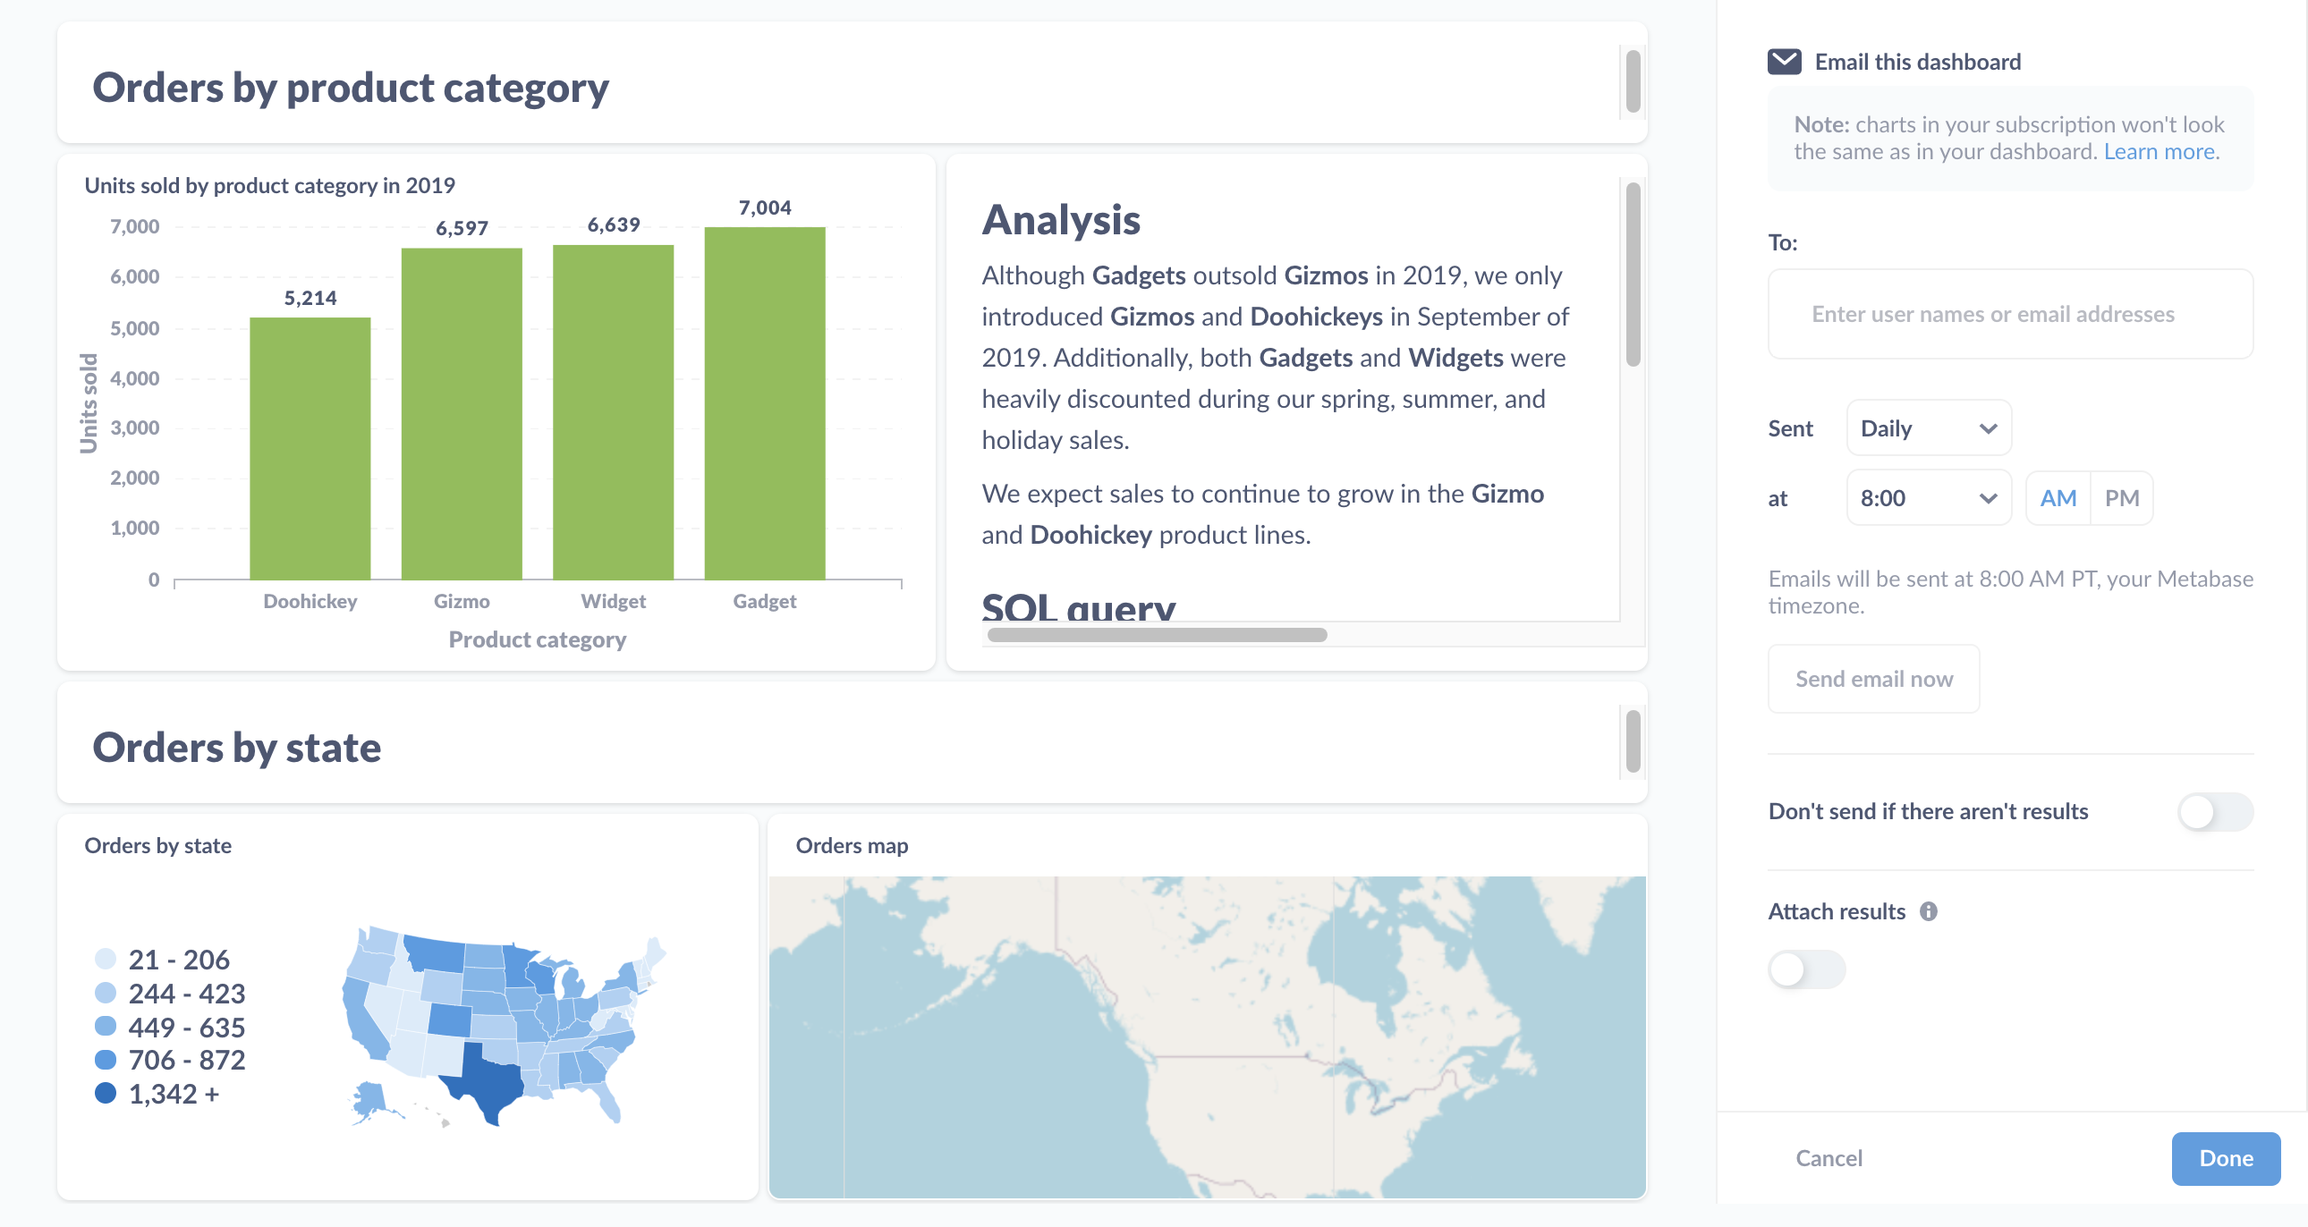
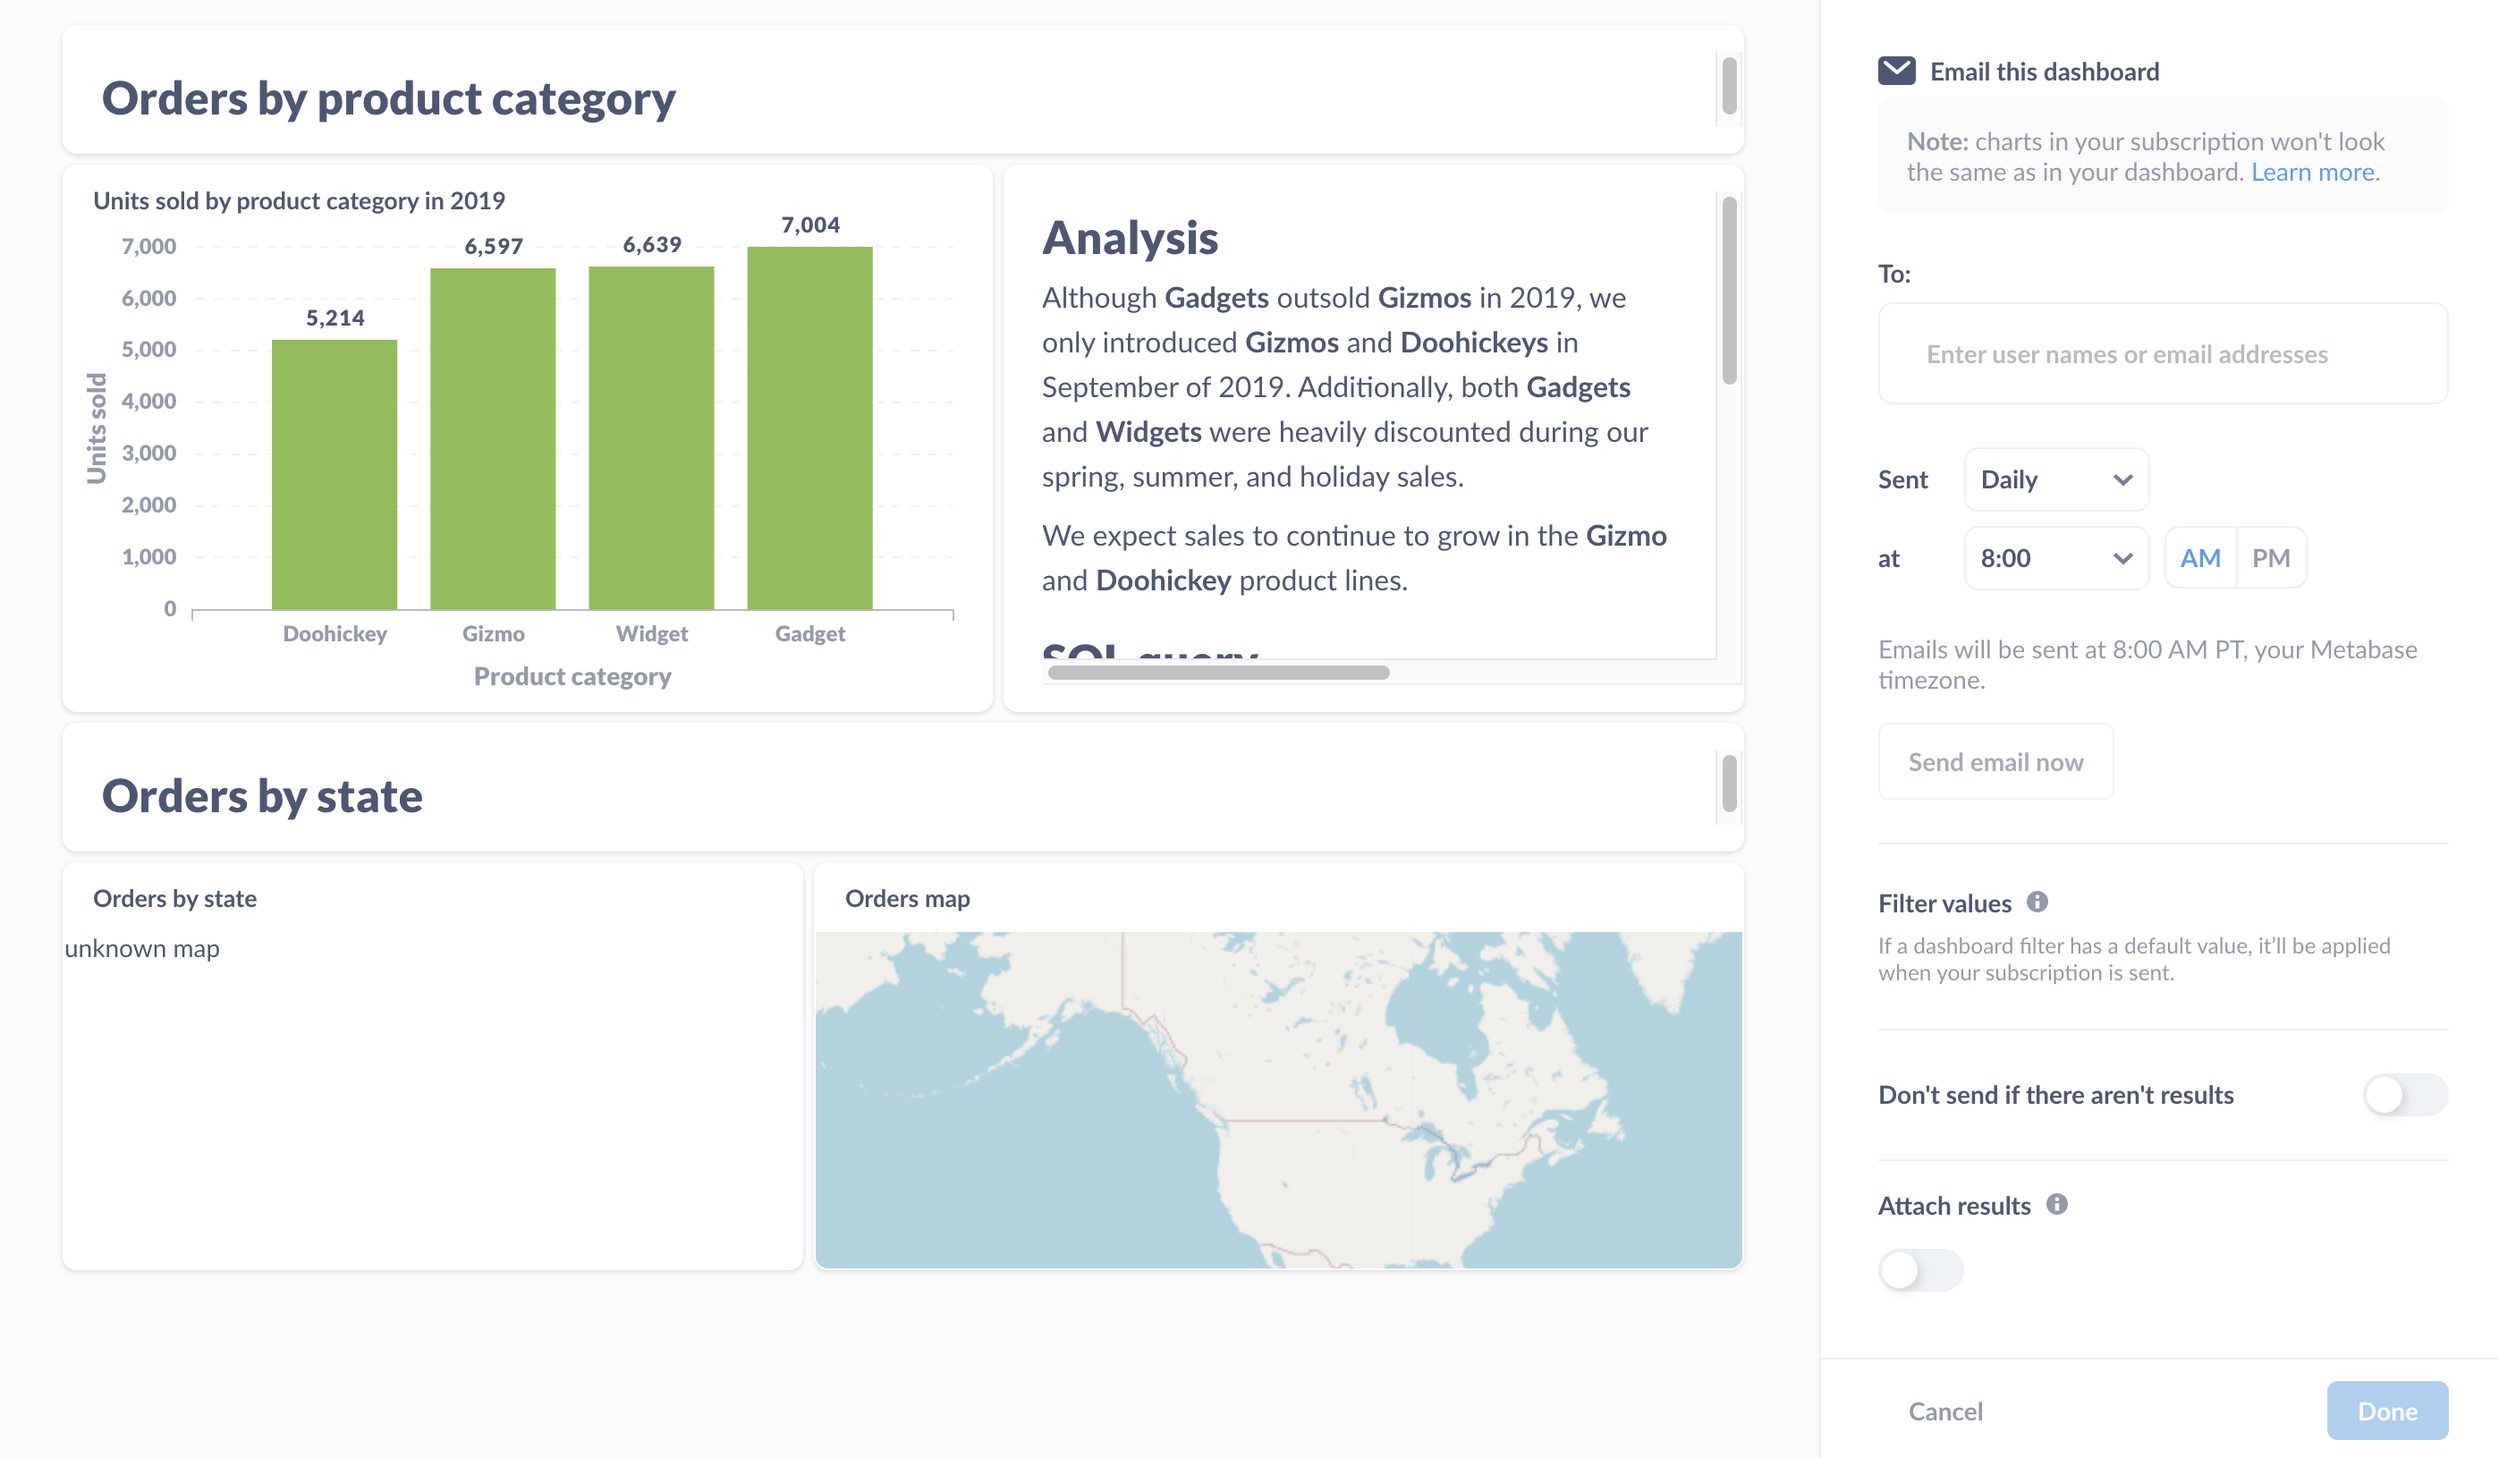
docs - EE filter values for dashboard subscriptions (#15525)

diff --git a/docs/enterprise-guide/dashboard-subscriptions.md b/docs/enterprise-guide/dashboard-subscriptions.md
@@ -1,0 +1,17 @@
+
+## Customize filter values for each dashboard subscription
+
+This page covers the Enterprise Edition features for [dashboard subscriptions](../users-guide/dashboard-subscriptions.md).
+
+The Enterprise Edition lets you customize which filter values to apply to each subscription. That way you can send different groups of people an email (or Slack message) the contents of the dashboard with different filters applied. You only need to maintain one dashboard, which you can use to send results relevant to each subscriber.
+
+### Setting filter values
+
+You can set values for each filter on the dashboard. If you have any dashboard filters with default values, you can override those defaults for a given subscription, or leave them as-is.
+
+Here's the sidebar in Enterprise Edition where you can set the filter values:
+
+![Setting a filter value](./images/dashboard-subscriptions/set-filter-values.png)
+
+The section to call out here is the **Set filter values for when this gets sent**. Here we've set "VT" as the value for the dashboard's State filter to scope results to records from Vermont. We didn't set a value for the Created_At filter, so the subscription will send the results without a filter applied. If you've set a default value for the filter, the subscription will list the value here.
+

diff --git a/docs/users-guide/dashboard-subscriptions.md b/docs/users-guide/dashboard-subscriptions.md
@@ -46,6 +46,18 @@ For Slack subscriptions, you can set up a subscription for a channel (like #gene
 
 You can specify how often Metabase sends a Slack message (hourly, daily, weekly, or monthly), and whether to send a message if the dashboard fails to return results.
 
+### Adding multiple subscriptions
+
+You can add multiple subscriptions to a single dashboard. To add a subscription, click on the **+** icon in the dashboard subscription panel.
+
+### Deleting a subscription
+
+To remove a subscription from a dashboard, select the subscription you'd like to remove. At the bottom of the sidebar, select **Delete this subscription**. Follow the instructions on the modal that pops up to confirm you'd like to delete the subscription.
+
+## Enterprise Edition: customize filter values for each dashboard subscription
+
+Metabase Enterprise Edition allows you to [customize filter values for each subscription](../enterprise-guide/dashboard-subscriptions.md), so you can set up subscriptions with different filter values applied for different subscribers.
+
 ### Related reading
 
 - [Setting up email](https://www.metabase.com/docs/latest/administration-guide/02-setting-up-email.html)

diff --git a/docs/administration-guide/10-single-sign-on.md b/docs/administration-guide/10-single-sign-on.md
@@ -53,7 +53,7 @@ Your LDAP directory must have these three fields populated or Metabase won't be 
 
 If you have user groups in Metabase you are using to control access, it is often tedious to have to manually assign a user to a group after they're logged in via SSO. You can take advantage of the groups your LDAP directory uses by enabling Group Mappings, and specifying which LDAP group corresponds to which user group on your Metabase server.
 
-If you run into an issue, check out our [LDAP troubleshooting guide](../troubleshooting-guide/ldap)
+If you run into an issue, check out our [LDAP troubleshooting guide](../troubleshooting-guide/ldap.md)
 
 ---
 

diff --git a/docs/enterprise-guide/start.md b/docs/enterprise-guide/start.md
@@ -11,3 +11,4 @@ The Enterprise Edition of Metabase provides added functionality and solutions fo
 * [Copying contents of one Metabase instance to another (serialization)](serialization.md)
 * [Using the audit logs](audit.md)
 * [Organizing SQL snippets with folders and permissions](sql-snippets.md)
+* [Customizing filter values for each dashboard subscription](dashboard-subscriptions.md)
